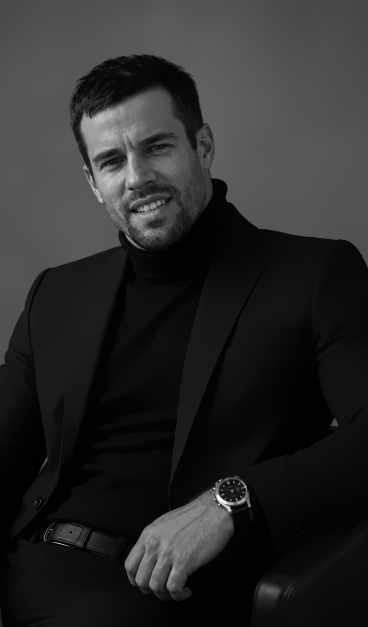
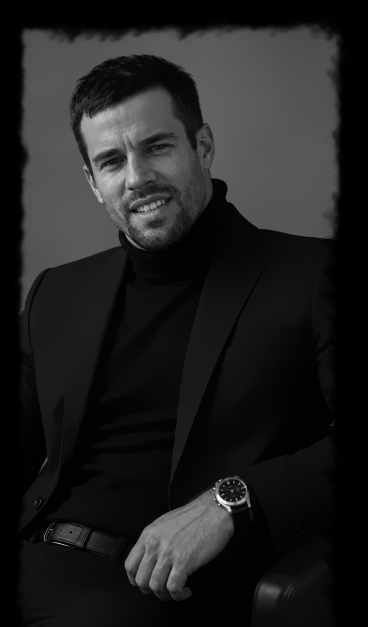
.

Changed region(s): [[0.0, 0.0, 1.0, 0.6061], [0.8967, 0.6667, 0.9266, 0.697], [0.0, 0.9697, 0.0299, 1.0]]

diff --git a/src/components/AboutSection.tsx b/src/components/AboutSection.tsx
@@ -13,7 +13,7 @@ export const AboutSection: React.FC = () => {
       <div className="absolute inset-0 opacity-15 bg-[radial-gradient(ellipse_at_center,_var(--tw-gradient-stops))] from-red-900/50 via-zinc-950 to-zinc-950 pointer-events-none"></div>
 
       {/* Central Portrait Image - Positioned absolutely to sit behind/between text */}
-      <div className="absolute bottom-0 left-1/2 -translate-x-1/2 w-full max-w-[700px] h-[85%] md:h-[95%] z-0 pointer-events-none flex items-end justify-center">
+      <div className="hidden md:block absolute bottom-0 left-1/2 -translate-x-1/2 w-full max-w-[700px] h-[85%] md:h-[95%] z-0 pointer-events-none flex items-end justify-center">
         <img 
           src="/profile2.jpg" 
           alt="Operative Profile" 
@@ -107,7 +107,7 @@ export const AboutSection: React.FC = () => {
             <div>
               <h4 className="text-white font-bold text-xl mb-3 uppercase tracking-wide">Diverse Tech Stack</h4>
               <p className="text-zinc-400 leading-relaxed text-sm md:text-base">
-                Familiar with a wide range of technologies and technique allowing me to adapt to any multimedia project.
+                Familiar with a wide range of technologies and technique allowing me to adapt to any project.
               </p>
             </div>
           </div>